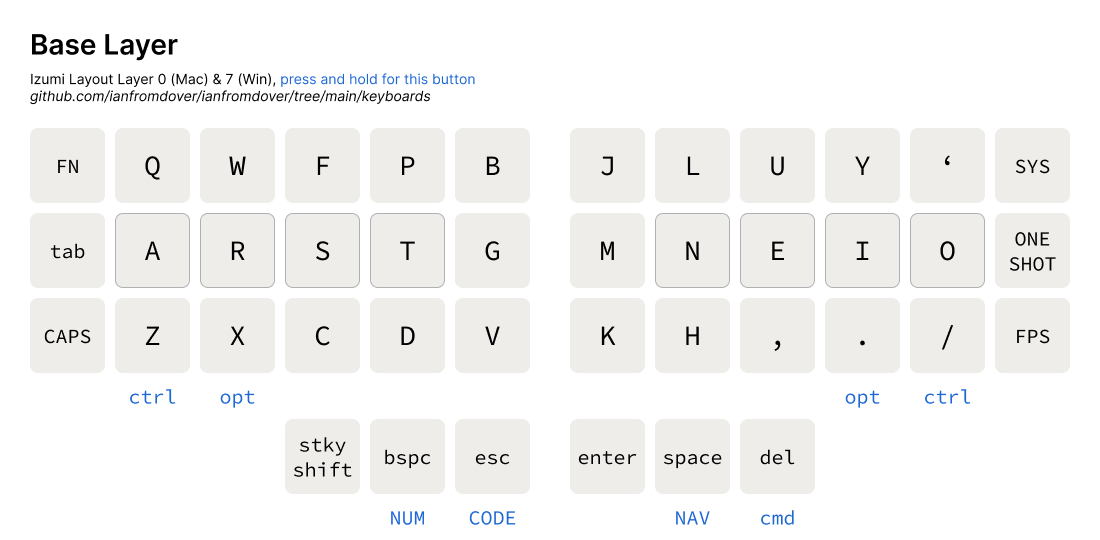
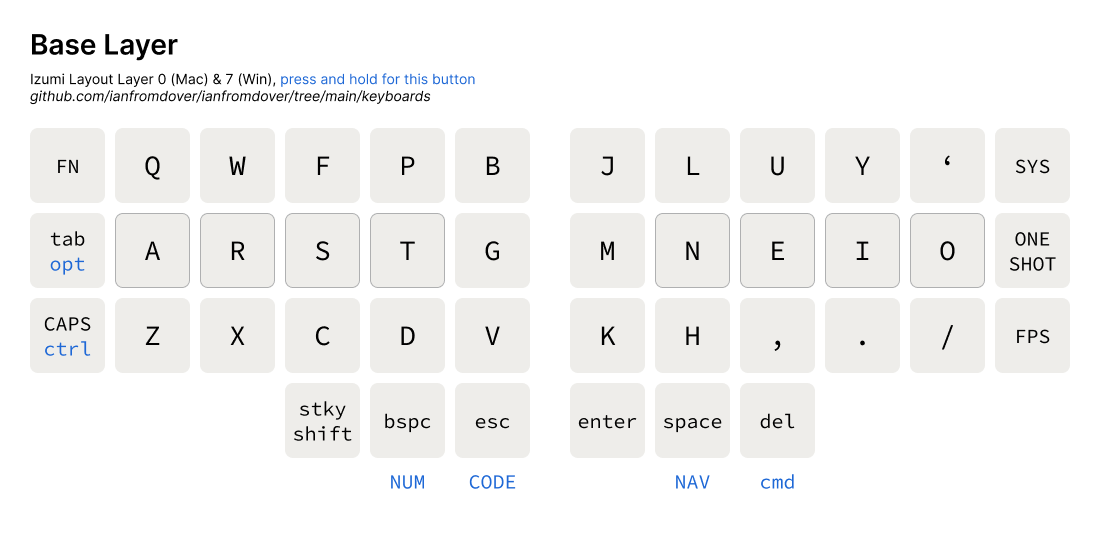
Move numpad to orig, move btm row mods to left

diff --git a/keyboards/qmk/izumi v5.6/keymap.c b/keyboards/qmk/izumi v5.6/keymap.c
@@ -46,11 +46,11 @@ const uint16_t PROGMEM keymaps[][MATRIX_ROWS][MATRIX_COLS] = {
   // Mac
   [0] = LAYOUT_split_3x6_3(
   //,-----------------------------------------------------.                    ,-----------------------------------------------------.
- LT(5, KC_NO),    KC_Q,    KC_W,    KC_F,    KC_P,    KC_B,                         KC_J,    KC_L,  KC_U,   KC_Y,   KC_QUOT, LT(5, KC_NO),
+LT(5, KC_NO),    KC_Q,   KC_W,    KC_F,    KC_P,    KC_B,                         KC_J,    KC_L,   KC_U,    KC_Y,   KC_QUOT, LT(5, KC_NO),
   //|--------+--------+--------+--------+--------+--------|                    |--------+--------+--------+--------+--------+--------|
-      KC_TAB,     KC_A,    KC_R,    KC_S,    KC_T,    KC_G,                         KC_M,    KC_N,  KC_E,   KC_I,   KC_O, OSL(6),
+LALT_T(KC_TAB),  KC_A,   KC_R,    KC_S,    KC_T,    KC_G,                         KC_M,    KC_N,   KC_E,    KC_I,   KC_O,    OSL(6),
   //|--------+--------+--------+--------+--------+--------|                    |--------+--------+--------+--------+--------+--------|
-  KC_CAPS, LCTL_T(KC_Z), LALT_T(KC_X), KC_C, KC_D,    KC_V,               KC_K, KC_H, KC_COMM, RALT_T(KC_DOT), RCTL_T(KC_SLSH), TG(4),
+LCTL_T(KC_CAPS), KC_Z,   KC_X,    KC_C,    KC_D,    KC_V,                         KC_K,    KC_H,   KC_COMM, KC_DOT, KC_SLSH, TG(4),
   //|--------+--------+--------+--------+--------+--------+--------|  |--------+--------+--------+--------+--------+--------+--------|
                        OSM(MOD_LSFT), LT(2, KC_BSPC), LT(3, KC_ESC),     KC_ENT, LT(1, KC_SPC), RGUI_T(KC_DEL)
                                       //`--------------------------'  `--------------------------'
@@ -59,11 +59,11 @@ const uint16_t PROGMEM keymaps[][MATRIX_ROWS][MATRIX_COLS] = {
   // Win
   [7] = LAYOUT_split_3x6_3(
   //,-----------------------------------------------------.                    ,-----------------------------------------------------.
- LT(12, KC_NO),    KC_Q,    KC_W,    KC_F,    KC_P,    KC_B,                      KC_J,    KC_L,    KC_U,   KC_Y,   KC_QUOT, LT(12, KC_NO),
+LT(12, KC_NO),   KC_Q,  KC_W,    KC_F,    KC_P,    KC_B,                         KC_J,    KC_L,    KC_U,    KC_Y,   KC_QUOT, LT(12, KC_NO),
   //|--------+--------+--------+--------+--------+--------|                    |--------+--------+--------+--------+--------+--------|
-      KC_TAB,     KC_A,    KC_R,    KC_S,    KC_T,    KC_G,                       KC_M,    KC_N,    KC_E,   KC_I,   KC_O,    OSL(13),
+LALT_T(KC_TAB),  KC_A,  KC_R,    KC_S,    KC_T,    KC_G,                         KC_M,    KC_N,    KC_E,    KC_I,   KC_O,    OSL(13),
   //|--------+--------+--------+--------+--------+--------|                    |--------+--------+--------+--------+--------+--------|
-  KC_CAPS, LGUI_T(KC_Z), LALT_T(KC_X), KC_C, KC_D,    KC_V,               KC_K, KC_H, KC_COMM, RALT_T(KC_DOT), RGUI_T(KC_SLSH), TG(11),
+LGUI_T(KC_CAPS), KC_Z,  KC_X,    KC_C,    KC_D,    KC_V,                         KC_K,    KC_H,    KC_COMM, KC_DOT, KC_SLSH, TG(11),
   //|--------+--------+--------+--------+--------+--------+--------|  |--------+--------+--------+--------+--------+--------+--------|
                        OSM(MOD_LSFT), LT(9, KC_BSPC), LT(10, KC_ESC),     KC_ENT, LT(8, KC_SPC), RCTL_T(KC_DEL)
                                       //`--------------------------'  `--------------------------'
@@ -103,11 +103,11 @@ KC_NO, G(KC_GRV), G(KC_TAB), G(KC_LEFT), G(KC_RGHT), KC_NO,                     
   //,-----------------------------------------------------.                    ,-----------------------------------------------------.
       KC_NO,   KC_NO,   KC_NO,   KC_NO,   KC_NO,   KC_NO,                        KC_ASTR, KC_7,    KC_8,    KC_9,    KC_SLSH, KC_NO,
   //|--------+--------+--------+--------+--------+--------|                    |--------+--------+--------+--------+--------+--------|
-      KC_NO,   KC_LCTL, KC_LALT, KC_LGUI, KC_LSFT, KC_NO,                        KC_PLUS, KC_4,    KC_5,    KC_6,    KC_0,    KC_EQL,
+      KC_NO,   KC_LCTL, KC_LALT, KC_LGUI, KC_LSFT, KC_NO,                        KC_PLUS, KC_4,    KC_5,    KC_6,    KC_EQL,  KC_SPC,
   //|--------+--------+--------+--------+--------+--------|                    |--------+--------+--------+--------+--------+--------|
       KC_NO,   KC_NO,   KC_NO,   KC_NO,   KC_NO,   KC_NO,                        KC_DLR,  KC_1,    KC_2,    KC_3,    KC_PERC, KC_NO,
   //|--------+--------+--------+--------+--------+--------+--------|  |--------+--------+--------+--------+--------+--------+--------|
-                                          KC_NO,   KC_NO,   KC_NO,      KC_MINS, KC_SPC,  KC_DOT
+                                          KC_NO,   KC_NO,   KC_NO,      KC_MINS, KC_0,    KC_DOT
                                       //`--------------------------'  `--------------------------'
   ),
 
@@ -116,11 +116,11 @@ KC_NO, G(KC_GRV), G(KC_TAB), G(KC_LEFT), G(KC_RGHT), KC_NO,                     
   //,-----------------------------------------------------.                    ,-----------------------------------------------------.
       KC_NO,   KC_NO,   KC_NO,   KC_NO,   KC_NO,   KC_NO,                        KC_ASTR, KC_7,    KC_8,    KC_9,    KC_SLSH, KC_NO,
   //|--------+--------+--------+--------+--------+--------|                    |--------+--------+--------+--------+--------+--------|
-      KC_NO,   KC_LGUI, KC_LALT, KC_LCTL, KC_LSFT, KC_NO,                        KC_PLUS, KC_4,    KC_5,    KC_6,    KC_0,    KC_EQL,
+      KC_NO,   KC_LGUI, KC_LALT, KC_LCTL, KC_LSFT, KC_NO,                        KC_PLUS, KC_4,    KC_5,    KC_6,    KC_EQL,  KC_SPC,
   //|--------+--------+--------+--------+--------+--------|                    |--------+--------+--------+--------+--------+--------|
       KC_NO,   KC_NO,   KC_NO,   KC_NO,   KC_NO,   KC_NO,                        KC_DLR,  KC_1,    KC_2,    KC_3,    KC_PERC, KC_NO,
   //|--------+--------+--------+--------+--------+--------+--------|  |--------+--------+--------+--------+--------+--------+--------|
-                                          KC_NO,   KC_NO,   KC_NO,      KC_MINS, KC_SPC,  KC_DOT
+                                          KC_NO,   KC_NO,   KC_NO,      KC_MINS, KC_0,   KC_DOT
                                       //`--------------------------'  `--------------------------'
   ),
   // ● ---------- CODE Layers ---------- ●
@@ -177,6 +177,8 @@ KC_NO, G(KC_GRV), G(KC_TAB), G(KC_LEFT), G(KC_RGHT), KC_NO,                     
                                       //`--------------------------'  `--------------------------'
   ),
   // ● ---------- System and Function Layers ---------- ●
+  // note: if this layer really doesn't need top row mods and is placed at the top, then the firmware size can be smaller when both layers refer to it.
+  // just remove layer 5 and get both bases to point to it.
   // Mac
   [5] = LAYOUT_split_3x6_3(
   //,-----------------------------------------------------.                    ,-----------------------------------------------------.
